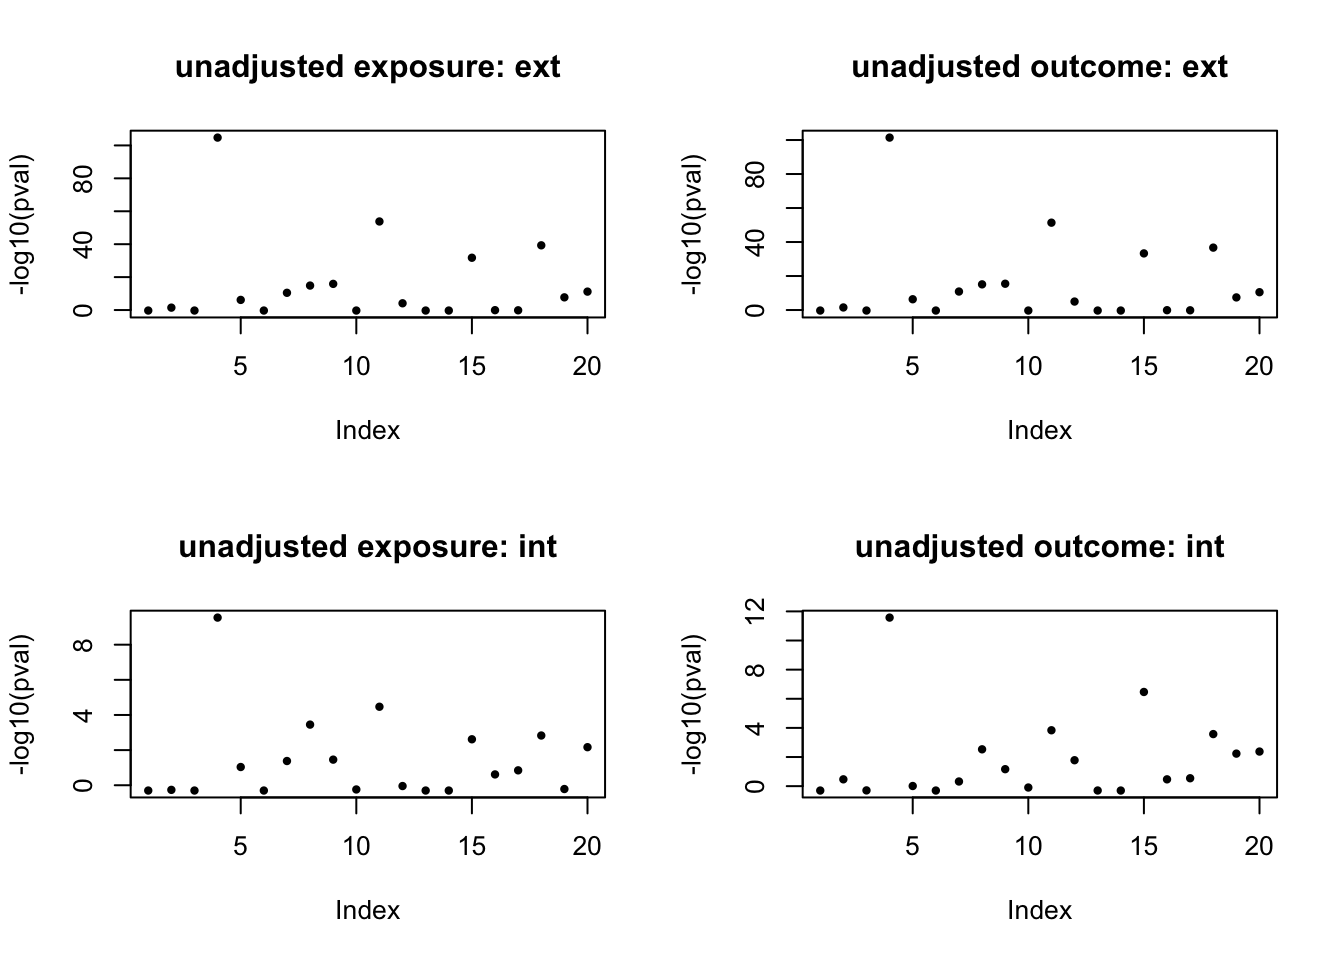
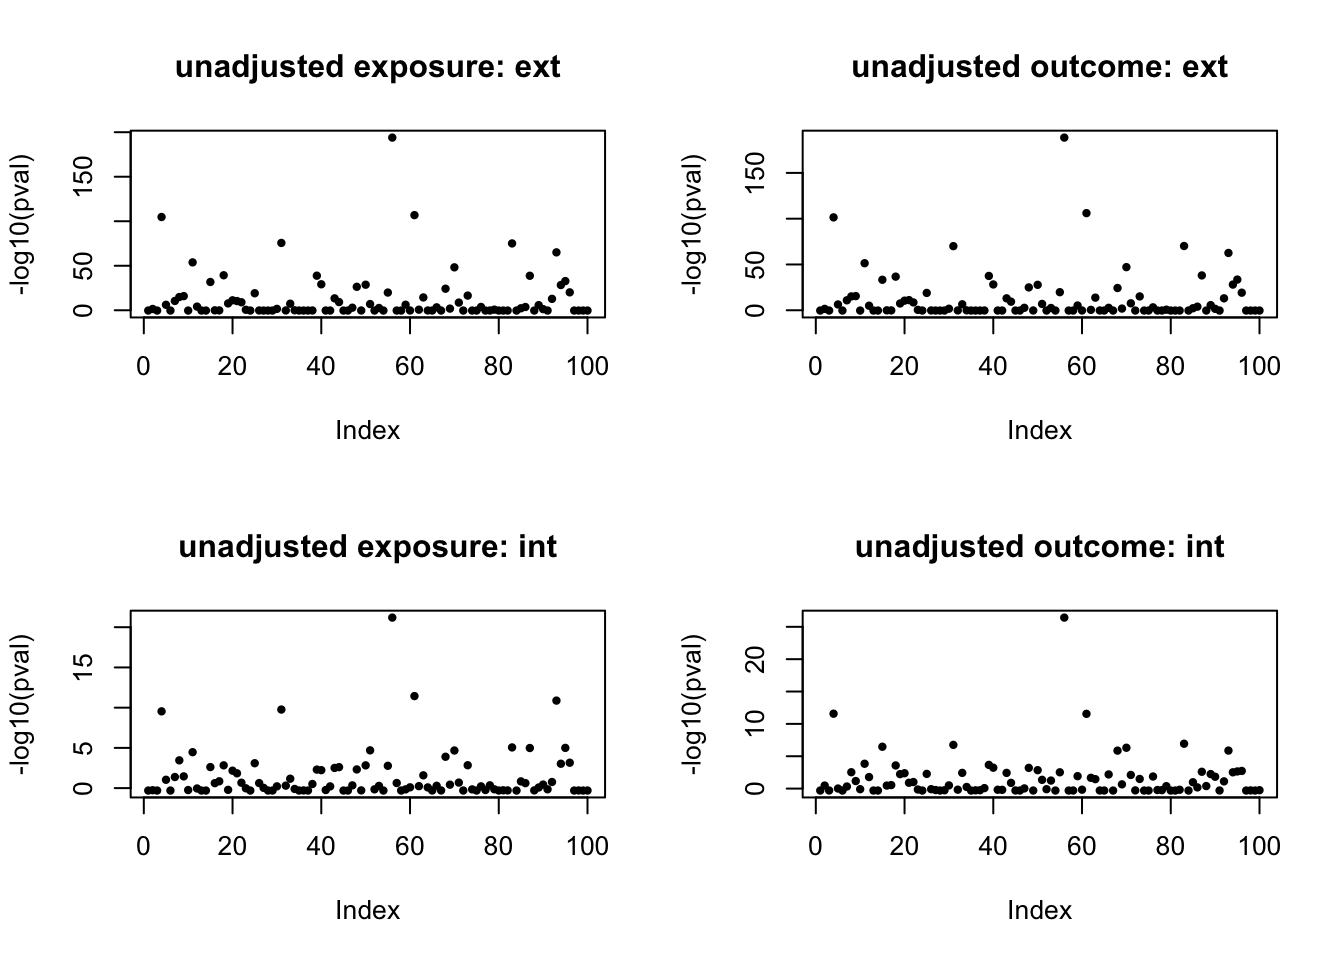
Build site.

diff --git a/docs/mr_real_dat.html b/docs/mr_real_dat.html
@@ -475,16 +475,16 @@ This reproducible <a href="http://rmarkdown.rstudio.com">R Markdown</a> analysis
 <div class="panel panel-default">
 <div class="panel-heading">
 <p class="panel-title">
-<a data-toggle="collapse" data-parent="#workflowr-checks" href="#strongRepositoryversionstrongahrefhttpsgithubcomyunqiyang0215simulationcalibratedmrtree9eb0358b54edac3c48136198b1057107b08ad40etargetblank9eb0358a"> <span class="glyphicon glyphicon-ok text-success" aria-hidden="true"></span> <strong>Repository version:</strong> <a href="https://github.com/yunqiyang0215/simulation-calibrated-mr/tree/9eb0358b54edac3c48136198b1057107b08ad40e" target="_blank">9eb0358</a> </a>
+<a data-toggle="collapse" data-parent="#workflowr-checks" href="#strongRepositoryversionstrongahrefhttpsgithubcomyunqiyang0215simulationcalibratedmrtree44ecf424aa4b98bc7571eb009a79e615cdf45961targetblank44ecf42a"> <span class="glyphicon glyphicon-ok text-success" aria-hidden="true"></span> <strong>Repository version:</strong> <a href="https://github.com/yunqiyang0215/simulation-calibrated-mr/tree/44ecf424aa4b98bc7571eb009a79e615cdf45961" target="_blank">44ecf42</a> </a>
 </p>
 </div>
[2 lines of base64/hex data omitted]
 <div class="panel-body">
 <p>
 Great! You are using Git for version control. Tracking code development and connecting the code version to the results is critical for reproducibility.
 </p>
 <p>
-The results in this page were generated with repository version <a href="https://github.com/yunqiyang0215/simulation-calibrated-mr/tree/9eb0358b54edac3c48136198b1057107b08ad40e" target="_blank">9eb0358</a>. See the <em>Past versions</em> tab to see a history of the changes made to the R Markdown and HTML files.
+The results in this page were generated with repository version <a href="https://github.com/yunqiyang0215/simulation-calibrated-mr/tree/44ecf424aa4b98bc7571eb009a79e615cdf45961" target="_blank">44ecf42</a>. See the <em>Past versions</em> tab to see a history of the changes made to the R Markdown and HTML files.
 </p>
 <p>
 Note that you need to be careful to ensure that all relevant files for the analysis have been committed to Git prior to generating the results (you can use <code>wflow_publish</code> or <code>wflow_git_commit</code>). workflowr only checks the R Markdown file, but you know if there are other scripts or data files that it depends on. Below is the status of the Git repository when the results were generated:
@@ -536,6 +536,40 @@ Message
 </tr>
 </thead>
 <tbody>
+<tr>
+<td>
+Rmd
+</td>
+<td>
+<a href="https://github.com/yunqiyang0215/simulation-calibrated-mr/blob/44ecf424aa4b98bc7571eb009a79e615cdf45961/analysis/mr_real_dat.Rmd" target="_blank">44ecf42</a>
+</td>
+<td>
+yunqiyang0215
+</td>
+<td>
+2023-07-04
+</td>
+<td>
+wflow_publish("analysis/mr_real_dat.Rmd")
+</td>
+</tr>
+<tr>
+<td>
+html
+</td>
+<td>
+<a href="https://rawcdn.githack.com/yunqiyang0215/simulation-calibrated-mr/51d7a1ba8a3ee39a83cce70929983122db6e4239/docs/mr_real_dat.html" target="_blank">51d7a1b</a>
+</td>
+<td>
+yunqiyang0215
+</td>
+<td>
+2023-07-04
+</td>
+<td>
+Build site.
+</td>
+</tr>
 <tr>
 <td>
 html
@@ -1181,6 +1215,17 @@ Date
 <tbody>
 <tr>
 <td>
+<a href="https://github.com/yunqiyang0215/simulation-calibrated-mr/blob/51d7a1ba8a3ee39a83cce70929983122db6e4239/docs/figure/mr_real_dat.Rmd/unnamed-chunk-4-1.png" target="_blank">51d7a1b</a>
+</td>
+<td>
+yunqiyang0215
+</td>
+<td>
+2023-07-04
+</td>
+</tr>
+<tr>
+<td>
 <a href="https://github.com/yunqiyang0215/simulation-calibrated-mr/blob/19f5dc55b7d04b64c70f76c71e262898ae64e19e/docs/figure/mr_real_dat.Rmd/unnamed-chunk-4-1.png" target="_blank">19f5dc5</a>
 </td>
 <td>
@@ -1330,6 +1375,17 @@ Date
 <tbody>
 <tr>
 <td>
+<a href="https://github.com/yunqiyang0215/simulation-calibrated-mr/blob/51d7a1ba8a3ee39a83cce70929983122db6e4239/docs/figure/mr_real_dat.Rmd/unnamed-chunk-5-1.png" target="_blank">51d7a1b</a>
+</td>
+<td>
+yunqiyang0215
+</td>
+<td>
+2023-07-04
+</td>
+</tr>
+<tr>
+<td>
 <a href="https://github.com/yunqiyang0215/simulation-calibrated-mr/blob/19f5dc55b7d04b64c70f76c71e262898ae64e19e/docs/figure/mr_real_dat.Rmd/unnamed-chunk-5-1.png" target="_blank">19f5dc5</a>
 </td>
 <td>
@@ -1425,7 +1481,6 @@ yunqiyang0215
 <h3>3. Compute unadjusted SNP effect size &amp; standard errors</h3>
 <p>This is just to calculate GWAS summary stat from external data.</p>
 <pre class="r"><code>n = 1e3
-p = 20
 N = 1e4
 
 y1.ext &lt;- matrix(NA, nrow = p, ncol = 2)
@@ -1513,6 +1568,17 @@ Date
 </tr>
 </thead>
 <tbody>
+<tr>
+<td>
+<a href="https://github.com/yunqiyang0215/simulation-calibrated-mr/blob/51d7a1ba8a3ee39a83cce70929983122db6e4239/docs/figure/mr_real_dat.Rmd/unnamed-chunk-10-1.png" target="_blank">51d7a1b</a>
+</td>
+<td>
+yunqiyang0215
+</td>
+<td>
+2023-07-04
+</td>
+</tr>
 <tr>
 <td>
 <a href="https://github.com/yunqiyang0215/simulation-calibrated-mr/blob/19f5dc55b7d04b64c70f76c71e262898ae64e19e/docs/figure/mr_real_dat.Rmd/unnamed-chunk-10-1.png" target="_blank">19f5dc5</a>
@@ -1622,6 +1688,17 @@ Date
 </tr>
 </thead>
 <tbody>
+<tr>
+<td>
+<a href="https://github.com/yunqiyang0215/simulation-calibrated-mr/blob/51d7a1ba8a3ee39a83cce70929983122db6e4239/docs/figure/mr_real_dat.Rmd/unnamed-chunk-11-1.png" target="_blank">51d7a1b</a>
+</td>
+<td>
+yunqiyang0215
+</td>
+<td>
+2023-07-04
+</td>
+</tr>
 <tr>
 <td>
 <a href="https://github.com/yunqiyang0215/simulation-calibrated-mr/blob/19f5dc55b7d04b64c70f76c71e262898ae64e19e/docs/figure/mr_real_dat.Rmd/unnamed-chunk-11-1.png" target="_blank">19f5dc5</a>
@@ -1788,59 +1865,59 @@ ivw.int &lt;- mr_ivw(MRInput)</code></pre>
 MR-Egger method
 (variants uncorrelated, random-effect model)
 
-Number of Variants =  20 
+Number of Variants =  100 
 
 ------------------------------------------------------------------
       Method Estimate Std Error  95% CI       p-value
-    MR-Egger    0.995     0.034  0.929, 1.061   0.000
- (intercept)    0.007     0.032 -0.055, 0.070   0.815
+    MR-Egger    0.999     0.017  0.966, 1.032   0.000
+ (intercept)   -0.002     0.015 -0.032, 0.028   0.885
 ------------------------------------------------------------------
-Residual Standard Error :  0.203 
+Residual Standard Error :  0.190 
 Residual standard error is set to 1 in calculation of confidence interval when its estimate is less than 1.
-Heterogeneity test statistic = 0.7381 on 18 degrees of freedom, (p-value = 1.0000)
-I^2_GX statistic: 98.1%</code></pre>
+Heterogeneity test statistic = 3.5493 on 98 degrees of freedom, (p-value = 1.0000)
+I^2_GX statistic: 97.5%</code></pre>
 <pre class="r"><code>ivw.ext</code></pre>
 <pre><code>
 Inverse-variance weighted method
 (variants uncorrelated, random-effect model)
 
-Number of Variants : 20 
+Number of Variants : 100 
 
 ------------------------------------------------------------------
  Method Estimate Std Error 95% CI       p-value
-    IVW    1.001     0.020 0.962, 1.040   0.000
+    IVW    0.997     0.010 0.978, 1.017   0.000
 ------------------------------------------------------------------
-Residual standard error =  0.204 
+Residual standard error =  0.190 
 Residual standard error is set to 1 in calculation of confidence interval when its estimate is less than 1.
-Heterogeneity test statistic (Cochran&#39;s Q) = 0.7929 on 19 degrees of freedom, (p-value = 1.0000). I^2 = 0.0%. </code></pre>
+Heterogeneity test statistic (Cochran&#39;s Q) = 3.5703 on 99 degrees of freedom, (p-value = 1.0000). I^2 = 0.0%. </code></pre>
 <pre class="r"><code>egger.int</code></pre>
 <pre><code>
 MR-Egger method
 (variants uncorrelated, random-effect model)
 
-Number of Variants =  20 
+Number of Variants =  100 
 
 ------------------------------------------------------------------
-      Method Estimate Std Error  95% CI        p-value
-    MR-Egger    1.226     0.136  0.959,  1.493   0.000
- (intercept)   -0.311     0.134 -0.573, -0.050   0.020
+      Method Estimate Std Error  95% CI       p-value
+    MR-Egger    1.010     0.070  0.873, 1.148   0.000
+ (intercept)   -0.076     0.064 -0.201, 0.049   0.234
 ------------------------------------------------------------------
-Residual Standard Error :  1.291 
-Heterogeneity test statistic = 29.9824 on 18 degrees of freedom, (p-value = 0.0376)
-I^2_GX statistic: 82.7%</code></pre>
+Residual Standard Error :  1.352 
+Heterogeneity test statistic = 179.1713 on 98 degrees of freedom, (p-value = 0.0000)
+I^2_GX statistic: 76.5%</code></pre>
 <pre class="r"><code>ivw.int</code></pre>
 <pre><code>
 Inverse-variance weighted method
 (variants uncorrelated, random-effect model)
 
-Number of Variants : 20 
+Number of Variants : 100 
 
 ------------------------------------------------------------------
  Method Estimate Std Error 95% CI       p-value
-    IVW    0.967     0.087 0.796, 1.137   0.000
+    IVW    0.944     0.043 0.860, 1.028   0.000
 ------------------------------------------------------------------
-Residual standard error =  1.433 
-Heterogeneity test statistic (Cochran&#39;s Q) = 39.0308 on 19 degrees of freedom, (p-value = 0.0044). I^2 = 51.3%. </code></pre>
+Residual standard error =  1.355 
+Heterogeneity test statistic (Cochran&#39;s Q) = 181.7622 on 99 degrees of freedom, (p-value = 0.0000). I^2 = 45.5%. </code></pre>
 </div>
 <div id="use-mr.raps" class="section level3">
 <h3>5. Use mr.raps</h3>
@@ -1857,17 +1934,17 @@ res.int = mr.raps.mle(y1.int[,1], y2.int[,1], y1.int[,2], y2.int[,2])</code></pr
 <pre class="r"><code>res.raw$beta.hat</code></pre>
 <pre><code>[1] 1.038649</code></pre>
 <pre class="r"><code>res.ext$beta.hat</code></pre>
-<pre><code>[1] 1.001226</code></pre>
+<pre><code>[1] 0.9975188</code></pre>
 <pre class="r"><code>res.int$beta.hat</code></pre>
-<pre><code>[1] 1.039929</code></pre>
+<pre><code>[1] 1.034529</code></pre>
 <pre class="r"><code>res.cali$beta.se</code></pre>
 <pre><code>[1] 0.04751247</code></pre>
 <pre class="r"><code>res.raw$beta.se</code></pre>
 <pre><code>[1] 0.06894854</code></pre>
 <pre class="r"><code>res.ext$beta.se</code></pre>
-<pre><code>[1] 0.02802909</code></pre>
+<pre><code>[1] 0.0141944</code></pre>
 <pre class="r"><code>res.int$beta.se</code></pre>
-<pre><code>[1] 0.09081022</code></pre>
+<pre><code>[1] 0.04787971</code></pre>
 <br>
 <p>
 <button type="button" class="btn btn-default btn-workflowr btn-workflowr-sessioninfo" data-toggle="collapse" data-target="#workflowr-sessioninfo" style="display: block;">
